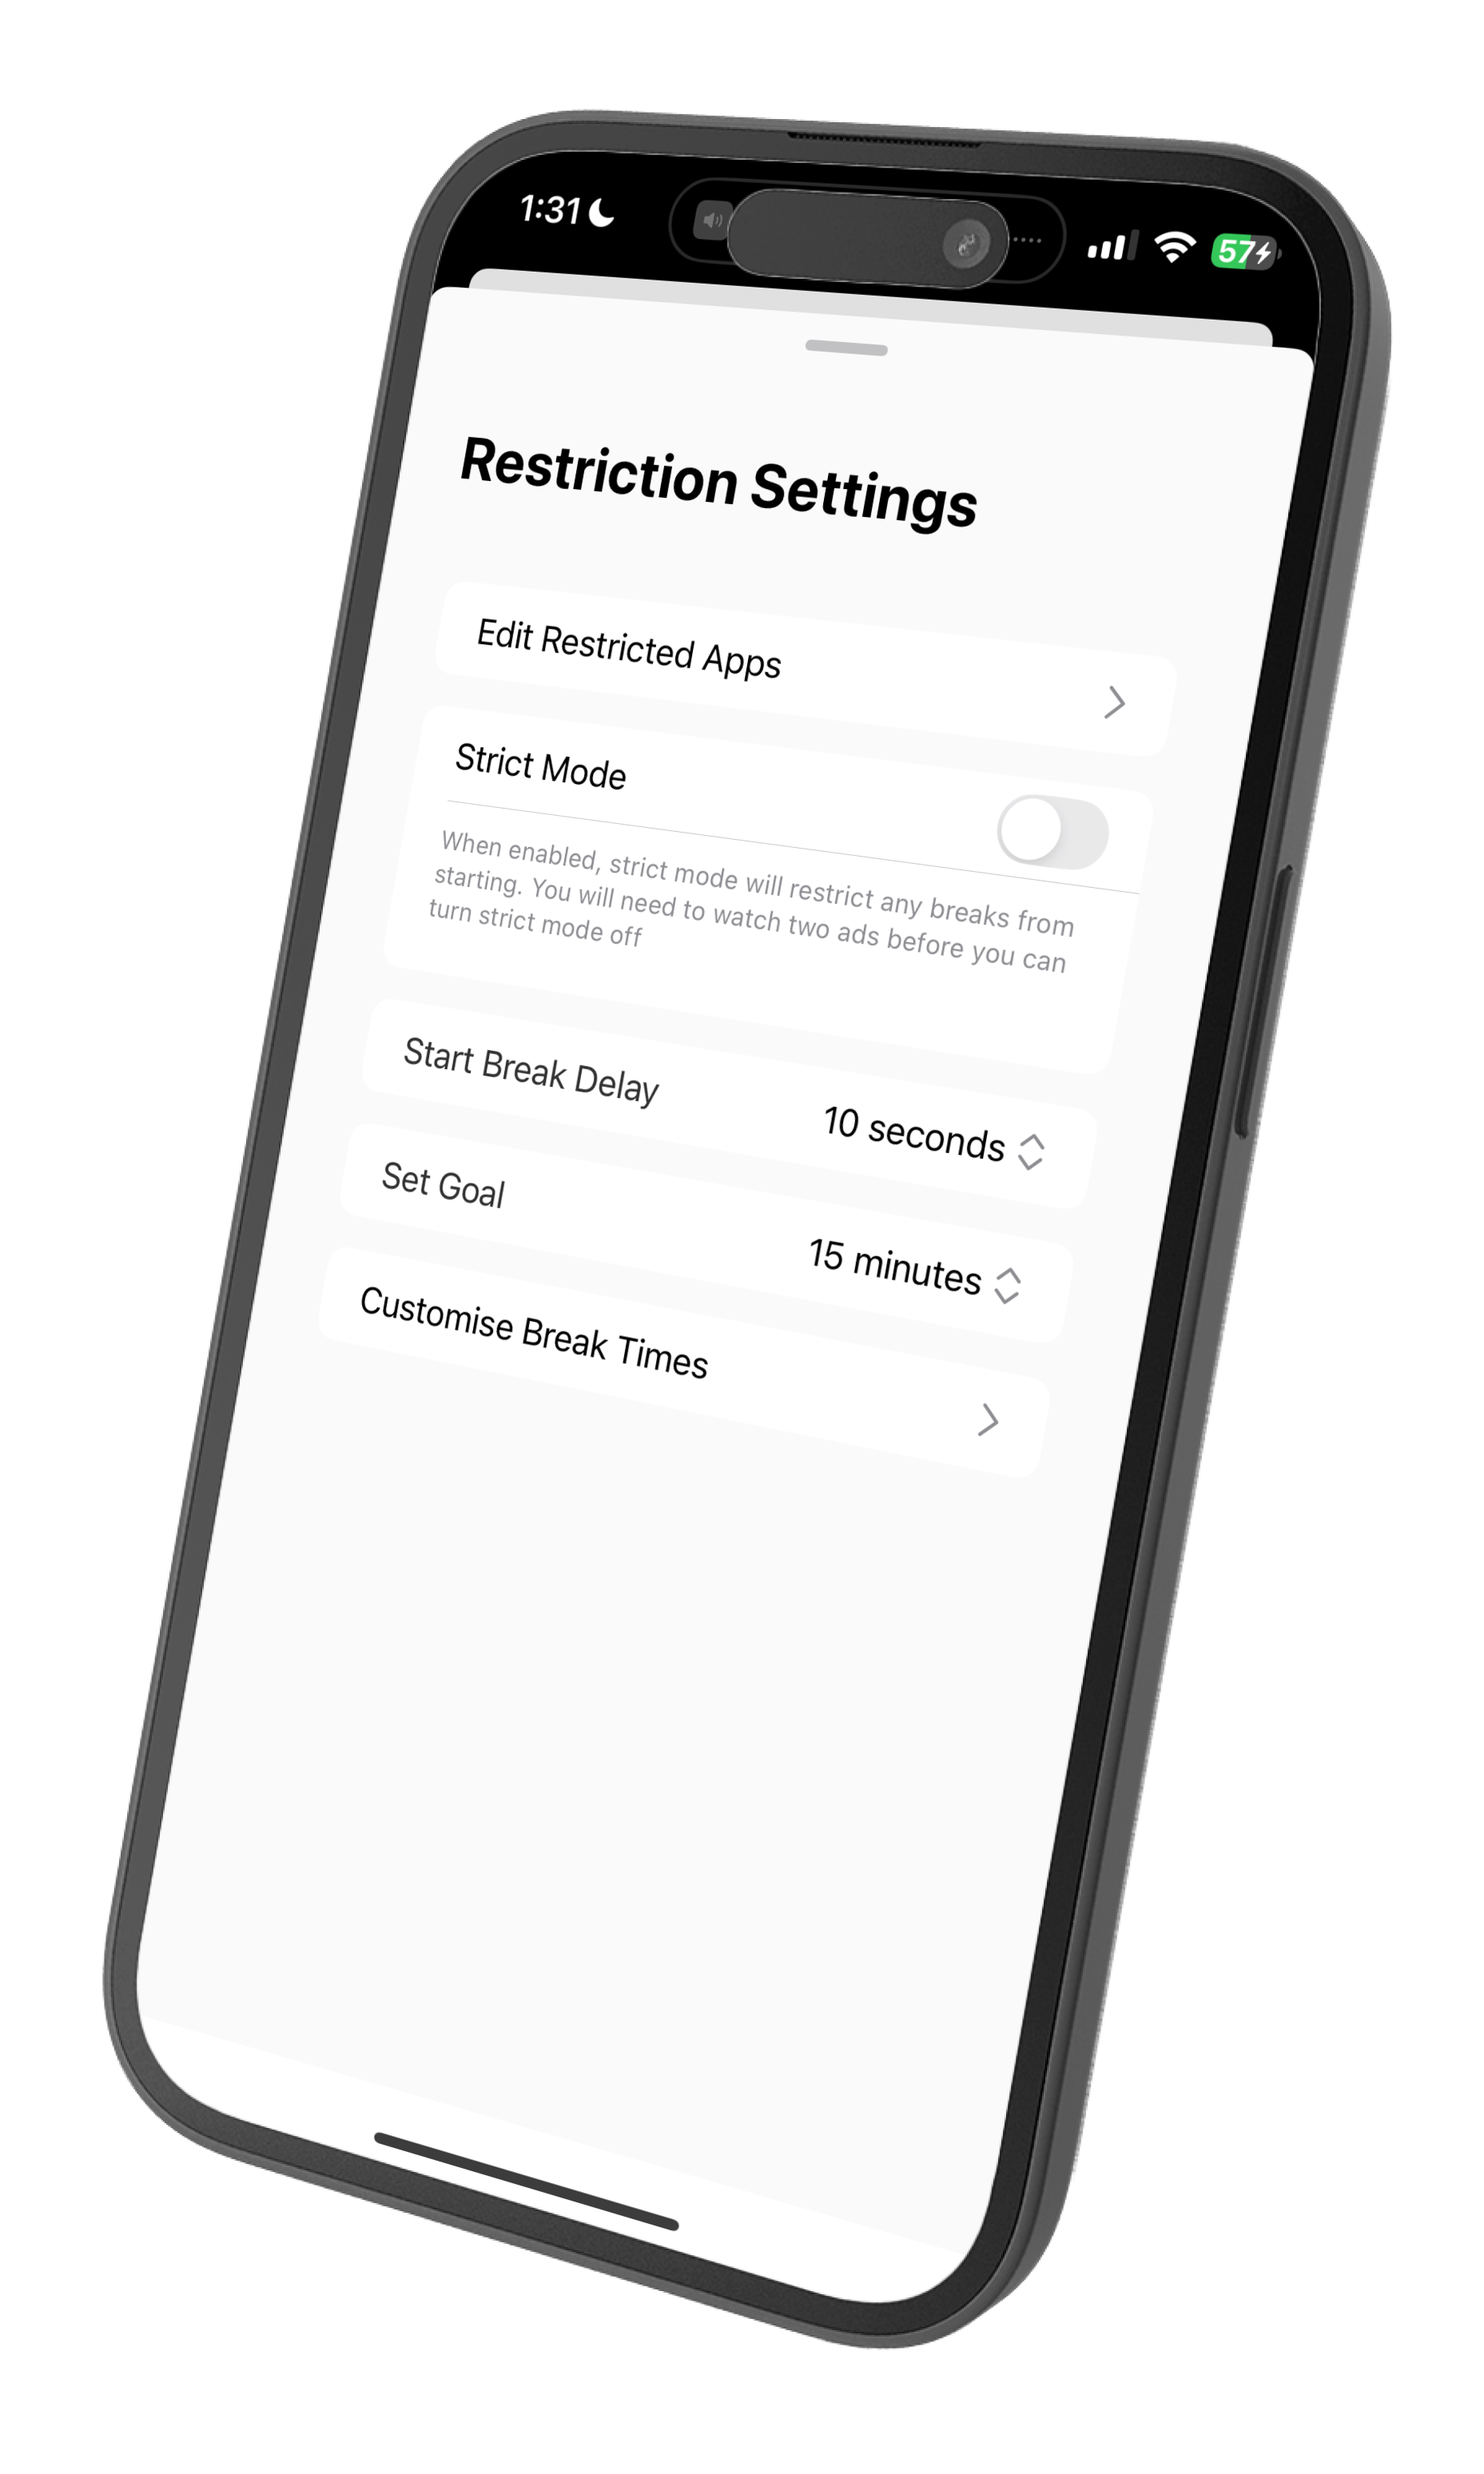
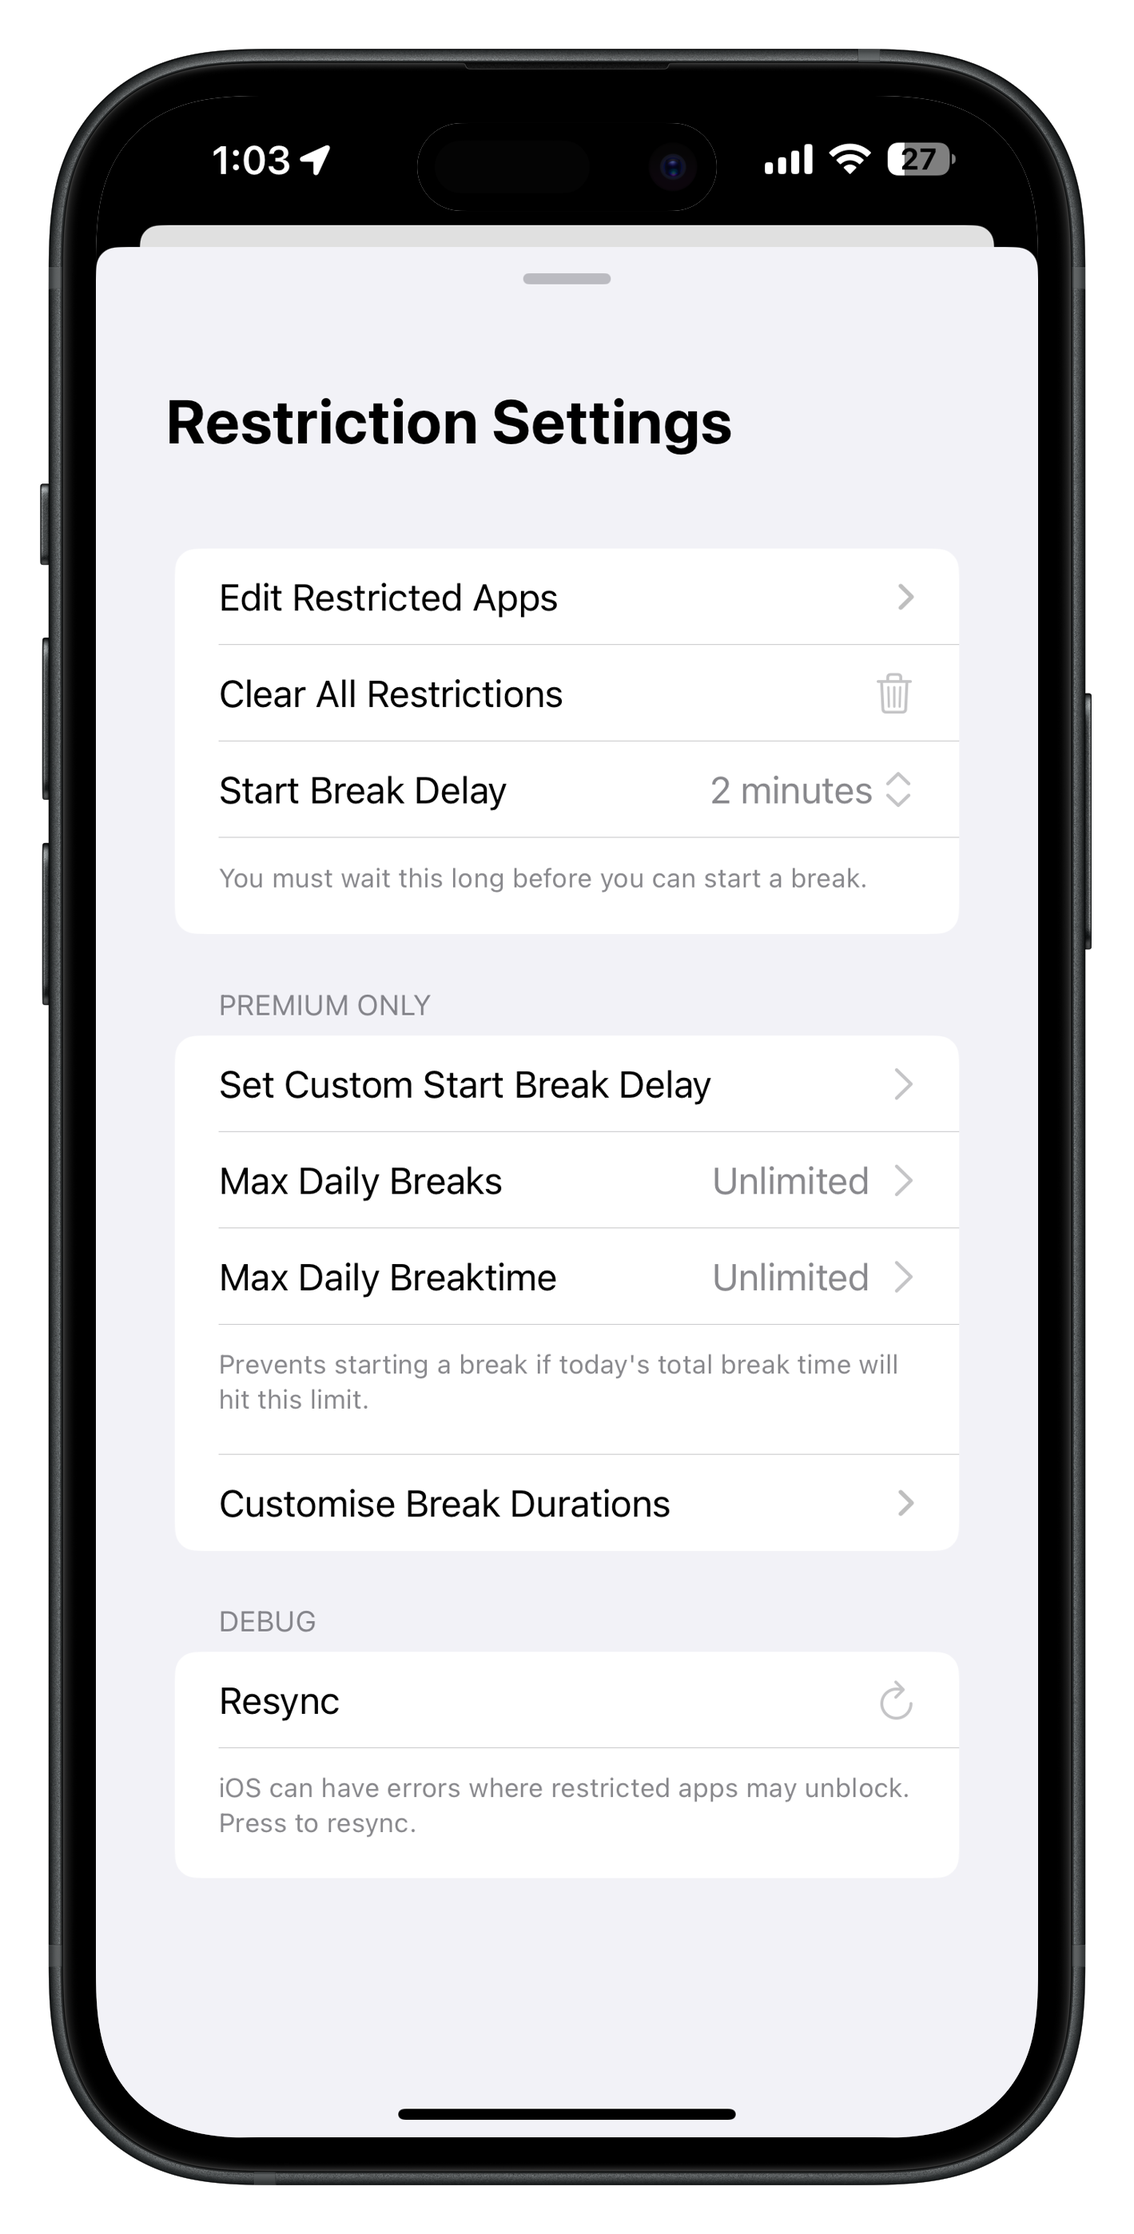
Sync breaktime portfolio page with breaktimeapp landing: add Advanced Page section, swap Customize section to image-left layout

diff --git a/breaktime/index.html b/breaktime/index.html
@@ -277,20 +277,47 @@
               data-aos="fade-right"
             >
               <span class="h5 text-brand fw-lighter"
+                >Advanced Page</span
+              >
+              <h2 class="display-4">
+                Strict mode, travel mode, schedules<br />and more
+              </h2>
+            </div>
+            <div class="col-12 col-lg-7">
+              <img
+                src="img/advancedpage.png"
+                class="img-fluid position-relative"
+                style="max-width: 340px"
+                data-aos="zoom-in-left"
+                alt="iPhone screenshot of Breaktime app"
+              />
+            </div>
+          </div>
+        </div>
+      </div>
+
+      <div class="bg-light position-relative">
+        <div class="container px-vw-5 py-vh-5">
+          <div class="row d-flex align-items-center">
+            <div class="col-12 col-lg-5 d-flex justify-content-end">
+              <img
+                src="img/iphoneleft.png"
+                class="img-fluid position-relative"
+                style="max-width: 370px"
+                data-aos="zoom-in-right"
+                alt="iPhone screenshot of Breaktime app"
+              />
+            </div>
+            <div
+              class="col-12 col-lg-7 bg-light rounded-5 py-5 textdiv2"
+              data-aos="fade-left"
+            >
+              <span class="h5 text-brand fw-lighter"
                 >Customize focus to your needs</span
               >
               <h2 class="display-4">
                 Choose exactly what works for you and helps keep you focused.
               </h2>
-            </div>
-            <div class="col-12 col-lg-7">
-              <img
-                src="img/iphoneleft.png"
-                class="img-fluid position-relative"
-                style="max-width: 450px"
-                data-aos="zoom-in-left"
-                alt="iPhone screenshot of Breaktime app"
-              />
             </div>
           </div>
         </div>
